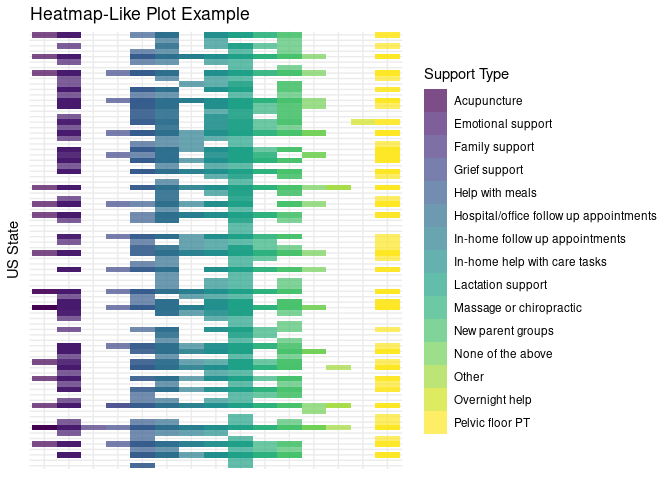
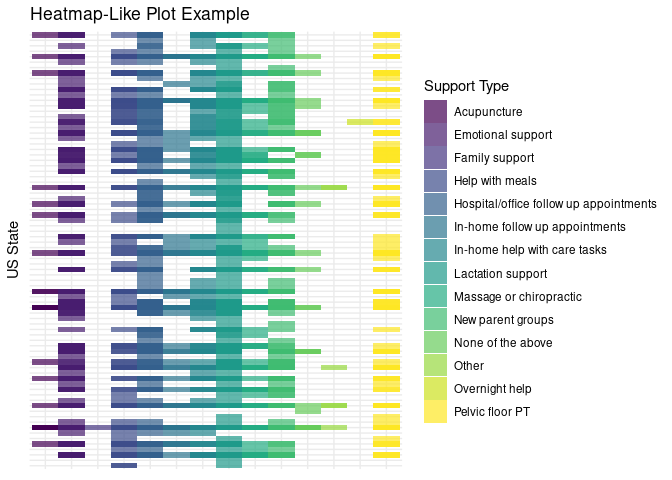
Update p1 bar chart

diff --git a/memo/memo.md b/memo/memo.md
@@ -15,6 +15,8 @@ library(broom)
 library(readxl)
 
 library(stringr)
+library(forcats)
+library(gridExtra)
 
 
 library(openintro)
@@ -276,7 +278,8 @@ Postpartum <- Postpartum|>
   mutate(support_type = ifelse(support_type == "New parent groups - in person", "New parent groups", support_type)) |>
   mutate(support_type = ifelse(support_type == "New parent groups - online", "New parent groups", support_type)) |>
   mutate(support_type = ifelse(support_type == "In-home wellness services and postpartum follow up appointments", "In-home follow up appointments", support_type)) |>
-  mutate(support_type = ifelse(support_type == "Community meal train or other meal service", "Help with meals", support_type))
+  mutate(support_type = ifelse(support_type == "Community meal train or other meal service", "Help with meals", support_type)) |> 
+  mutate(support_type = ifelse(support_type == "Grief support", "Emotional support", support_type))
 ```
 
 ``` r
@@ -292,13 +295,12 @@ unique(Postpartum$support_type)
     ##  [7] "Massage or chiropractic"               
     ##  [8] "Pelvic floor PT"                       
     ##  [9] "In-home follow up appointments"        
-    ## [10] "Grief support"                         
-    ## [11] "Acupuncture"                           
-    ## [12] "None of the above"                     
-    ## [13] "Family support"                        
-    ## [14] "Other"                                 
-    ## [15] "NA"                                    
-    ## [16] "Overnight help"
+    ## [10] "Acupuncture"                           
+    ## [11] "None of the above"                     
+    ## [12] "Family support"                        
+    ## [13] "Other"                                 
+    ## [14] "NA"                                    
+    ## [15] "Overnight help"
 
 ### Step 4: Cleaning `birth_location`
 
@@ -391,23 +393,42 @@ These data cleaning sections are optional and depend on if you have some
 data cleaning steps specific to a particular plot
 
 ``` r
-p1 <- Postpartum |>
-  filter(support_type != "NA") |>
-  filter(support_type != "Lactation support, New parent groups - in person") |>
-  ggplot(mapping = aes(x = fct_infreq(support_type), fill = support_type)) +
-   geom_bar() +
-  #  aes(pattern = birth_location, fill = birth_location, pattern_fill = birth_location),
-   # colour                   = 'black', 
-  #  pattern_density          = 0.35, 
-   # pattern_key_scale_factor = 1.3) +
+#p1 <- 
+Postpartum |>
+  filter(!is.na(support_type)) |>
+  filter(support_type != "Lactation support, New parent groups - in person",
+         support_type != "NA",
+         support_type != "Overnight help",
+         support_type != "Family support",
+         support_type != "New parent groups",
+         support_type != "In-home help with care tasks",
+         support_type != "Help with meals") |>
+  ggplot(mapping = aes(x = fct_rev(fct_infreq(support_type)), fill = support_type)) +
+  geom_bar() +
+  scale_fill_manual(
+    values = c(
+      "In-home follow up appointments" = "pink",
+      "Massage or chiropractic" = "pink",
+      "Acupuncture" = "pink",
+      "default" = "dark blue"
+    )
+    ) +
   theme_bw() +
-  scale_fill_viridis_d() + 
   theme(legend.position = 'none') + 
   coord_flip() +
-  labs(title = "Types of Postpartum Care Accessed", subtitle = "In the US Between 2013-2023 by Survey Respondents", x = "Support Type", y = "Frequency", fill = "Birth Location") 
+  labs(title = "Formal types of Postpartum Care Accessed", 
+       subtitle = "In the US Between 2013-2023 by Survey Respondents", 
+       x = "Support Type", 
+       y = "Number of Survey Respondents",
+       ) 
+```
 
+![](memo_files/figure-gfm/care-type-frequency-bar-chart-1.png)<!-- -->
 
-ggsave("example-postpartum-wide.png", width = 10, height = 4)
+``` r
+#we could add text on graph with geom_text() to indicate pink = higher quality services
+
+#ggsave("example-postpartum-wide.png", width = 10, height = 4)
 ```
 
 ### Plot 2: Wordcloud

diff --git a/extra/README.md b/extra/README.md
@@ -1,3 +1,70 @@
 # extra
 
 Any extra documents you might have go here. This might include Rmd files you're using to develop your project, any notes, or anything else. The contents of this folder will **not** be marked, it's just a convenient place to store documents and collaborate with teammates without cluttering the rest of your repo.
+
+
+## Plot critique 1
+
+```{r care-type-frequency-bar-chart }
+
+#p1 <- 
+Postpartum |>
+  filter(support_type != "NA") |>
+  filter(support_type != "Lactation support, New parent groups - in person") |>
+  ggplot(mapping = aes(x = fct_infreq(support_type), fill = support_type)) +
+   geom_bar() +
+  #  aes(pattern = birth_location, fill = birth_location, pattern_fill = birth_location),
+   # colour                   = 'black', 
+  #  pattern_density          = 0.35, 
+   # pattern_key_scale_factor = 1.3) +
+  theme_bw() +
+  scale_fill_viridis_d() + 
+  theme(legend.position = 'none') + 
+  coord_flip() +
+  labs(title = "Types of Postpartum Care Accessed", subtitle = "In the US Between 2013-2023 by Survey Respondents", x = "Support Type", y = "Frequency", fill = "Birth Location") 
+
+
+#ggsave("example-postpartum-wide.png", width = 10, height = 4)
+
+
+
+
+
+
+Special legend (started)
+
+p1 <- Postpartum |>
+  filter(!is.na(support_type)) |>
+  filter(support_type != "Lactation support, New parent groups - in person",
+         support_type != "NA",
+         support_type != "Overnight help",
+         support_type != "Family support",
+         support_type != "New parent groups",
+         support_type != "In-home help with care tasks",
+         support_type != "Help with meals") |>
+  ggplot(mapping = aes(x = fct_rev(fct_infreq(support_type)), fill = support_type)) +
+  geom_bar() +
+  scale_fill_manual(
+    values = c(
+      "In-home follow up appointments" = "pink",
+      "Massage or chiropractic" = "pink",
+      "Acupuncture" = "pink",
+      "default" = "dark blue"
+    )
+    ) +
+  theme_bw() +
+  theme(legend.position = 'none') + 
+  coord_flip() +
+  labs(title = "Formal types of Postpartum Care Accessed", 
+       subtitle = "In the US Between 2013-2023 by Survey Respondents", 
+       x = "Support Type", 
+       y = "Number of Survey Respondents",
+       ) 
+
+  new_legend <- ggplot() +
+  geom_rect(aes(xmin = 0, xmax = 1, ymin = 0.3, ymax = 0.5), fill = "pink") +
+  geom_text(aes(x = 1, y = 0.7, label = "Higher quality services"), size = 5, hjust = 0) +
+    theme_void() +
+    theme(plot.background = element_rect(fill = "white"))
+  
+  grid.arrange(p1, new_legend, ncol = 2, widths = c(10, 1))
